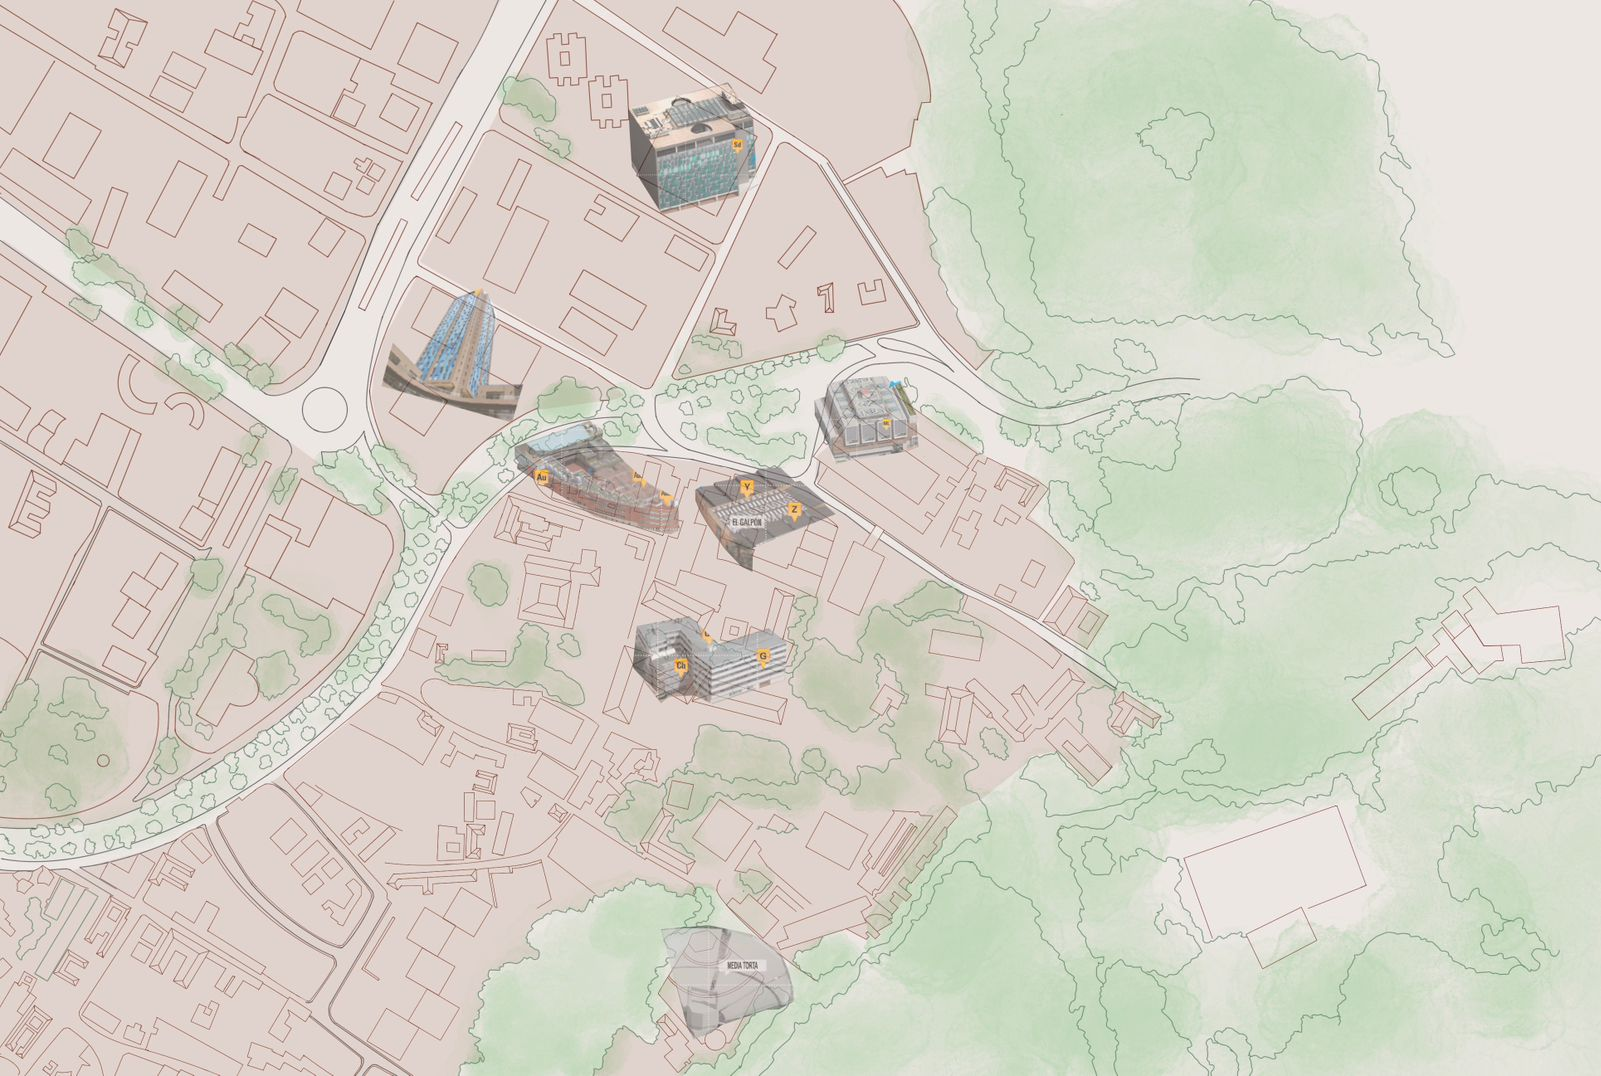
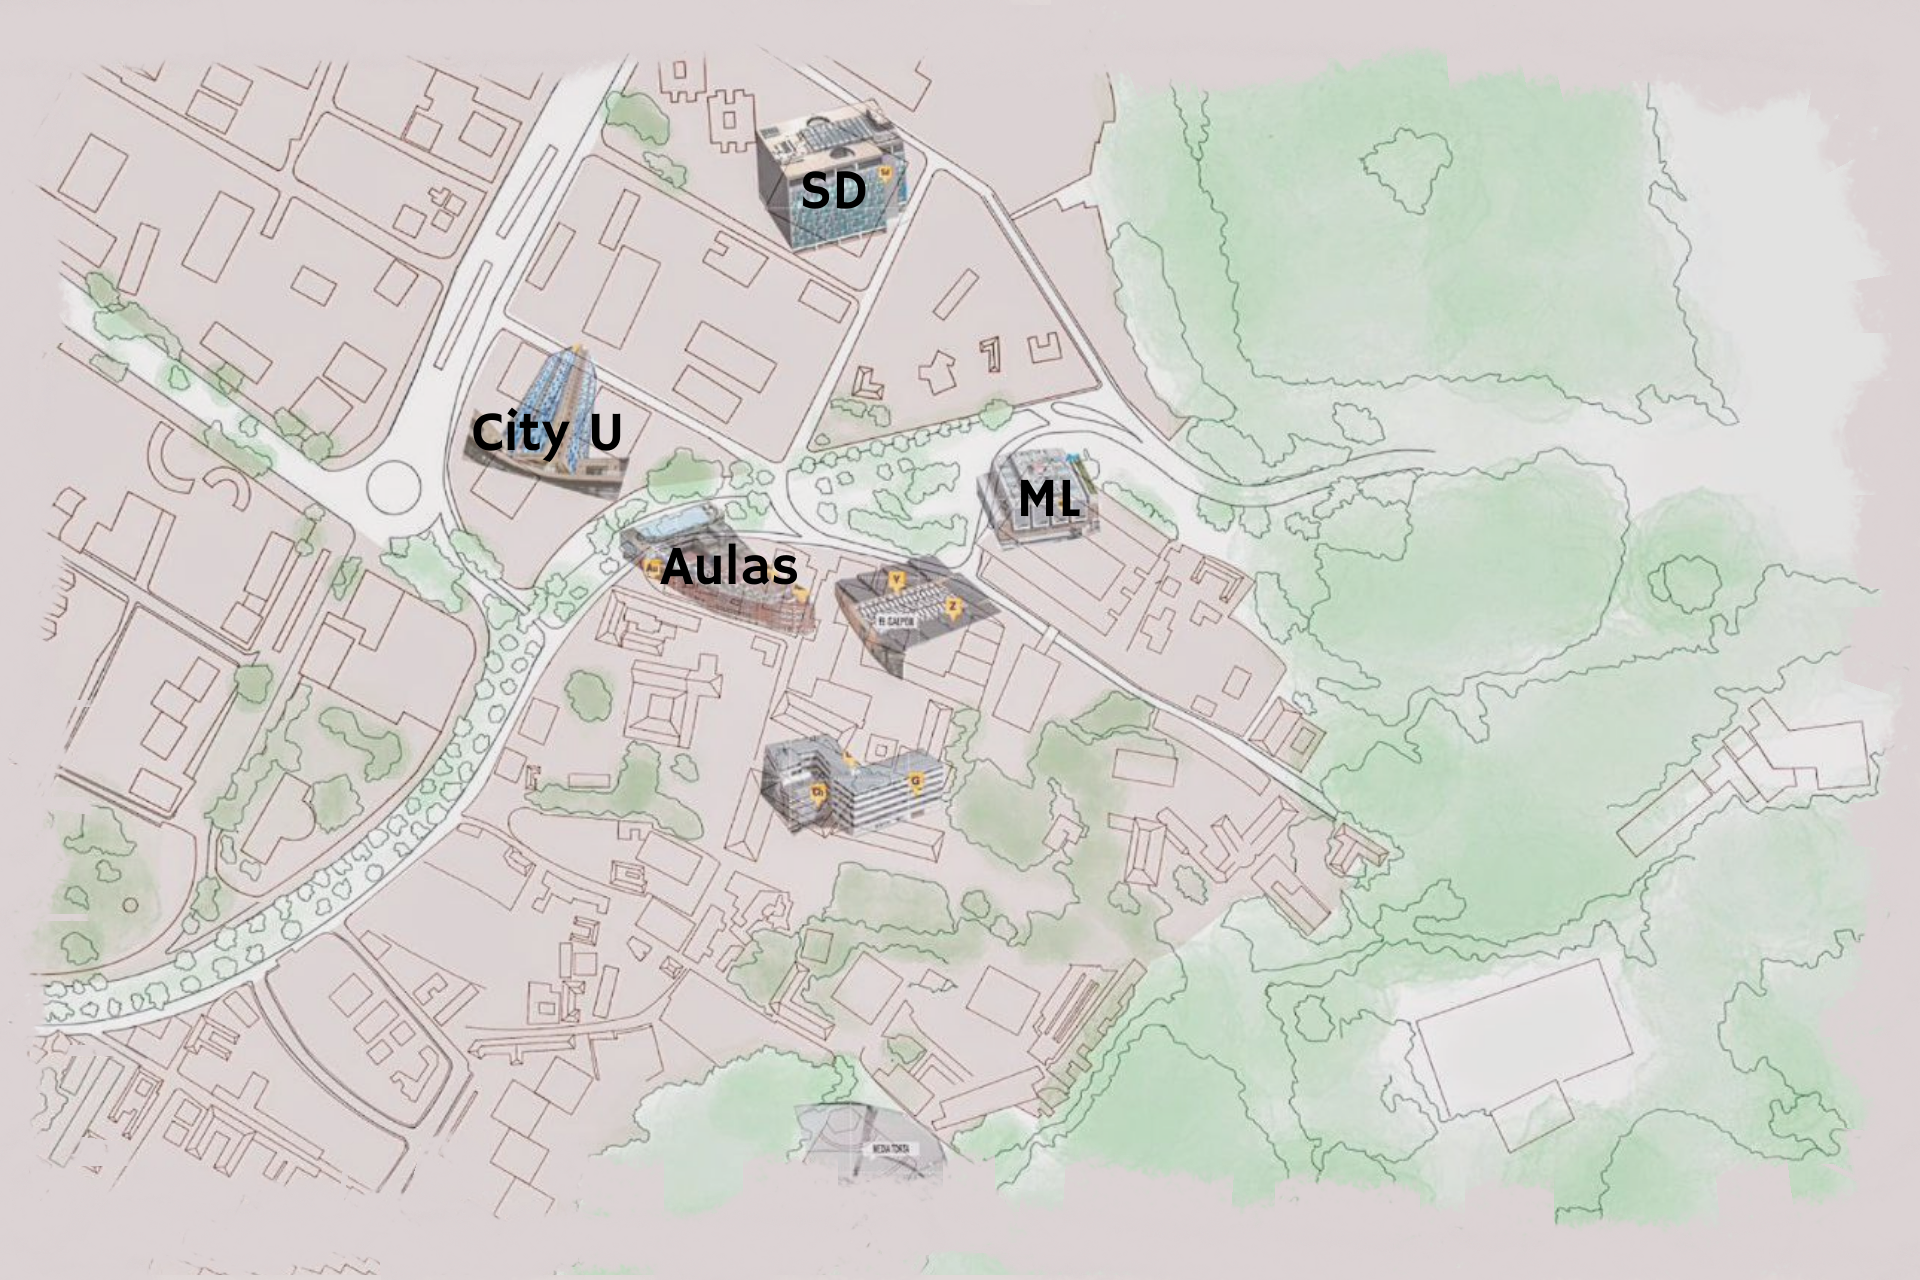
Mapa Actualizado

diff --git a/src/index.css b/src/index.css
@@ -1,4 +1,4 @@
 body {
-    background-color: #cecece; 
+    background-color: #ddd5d4; 
 }
 
